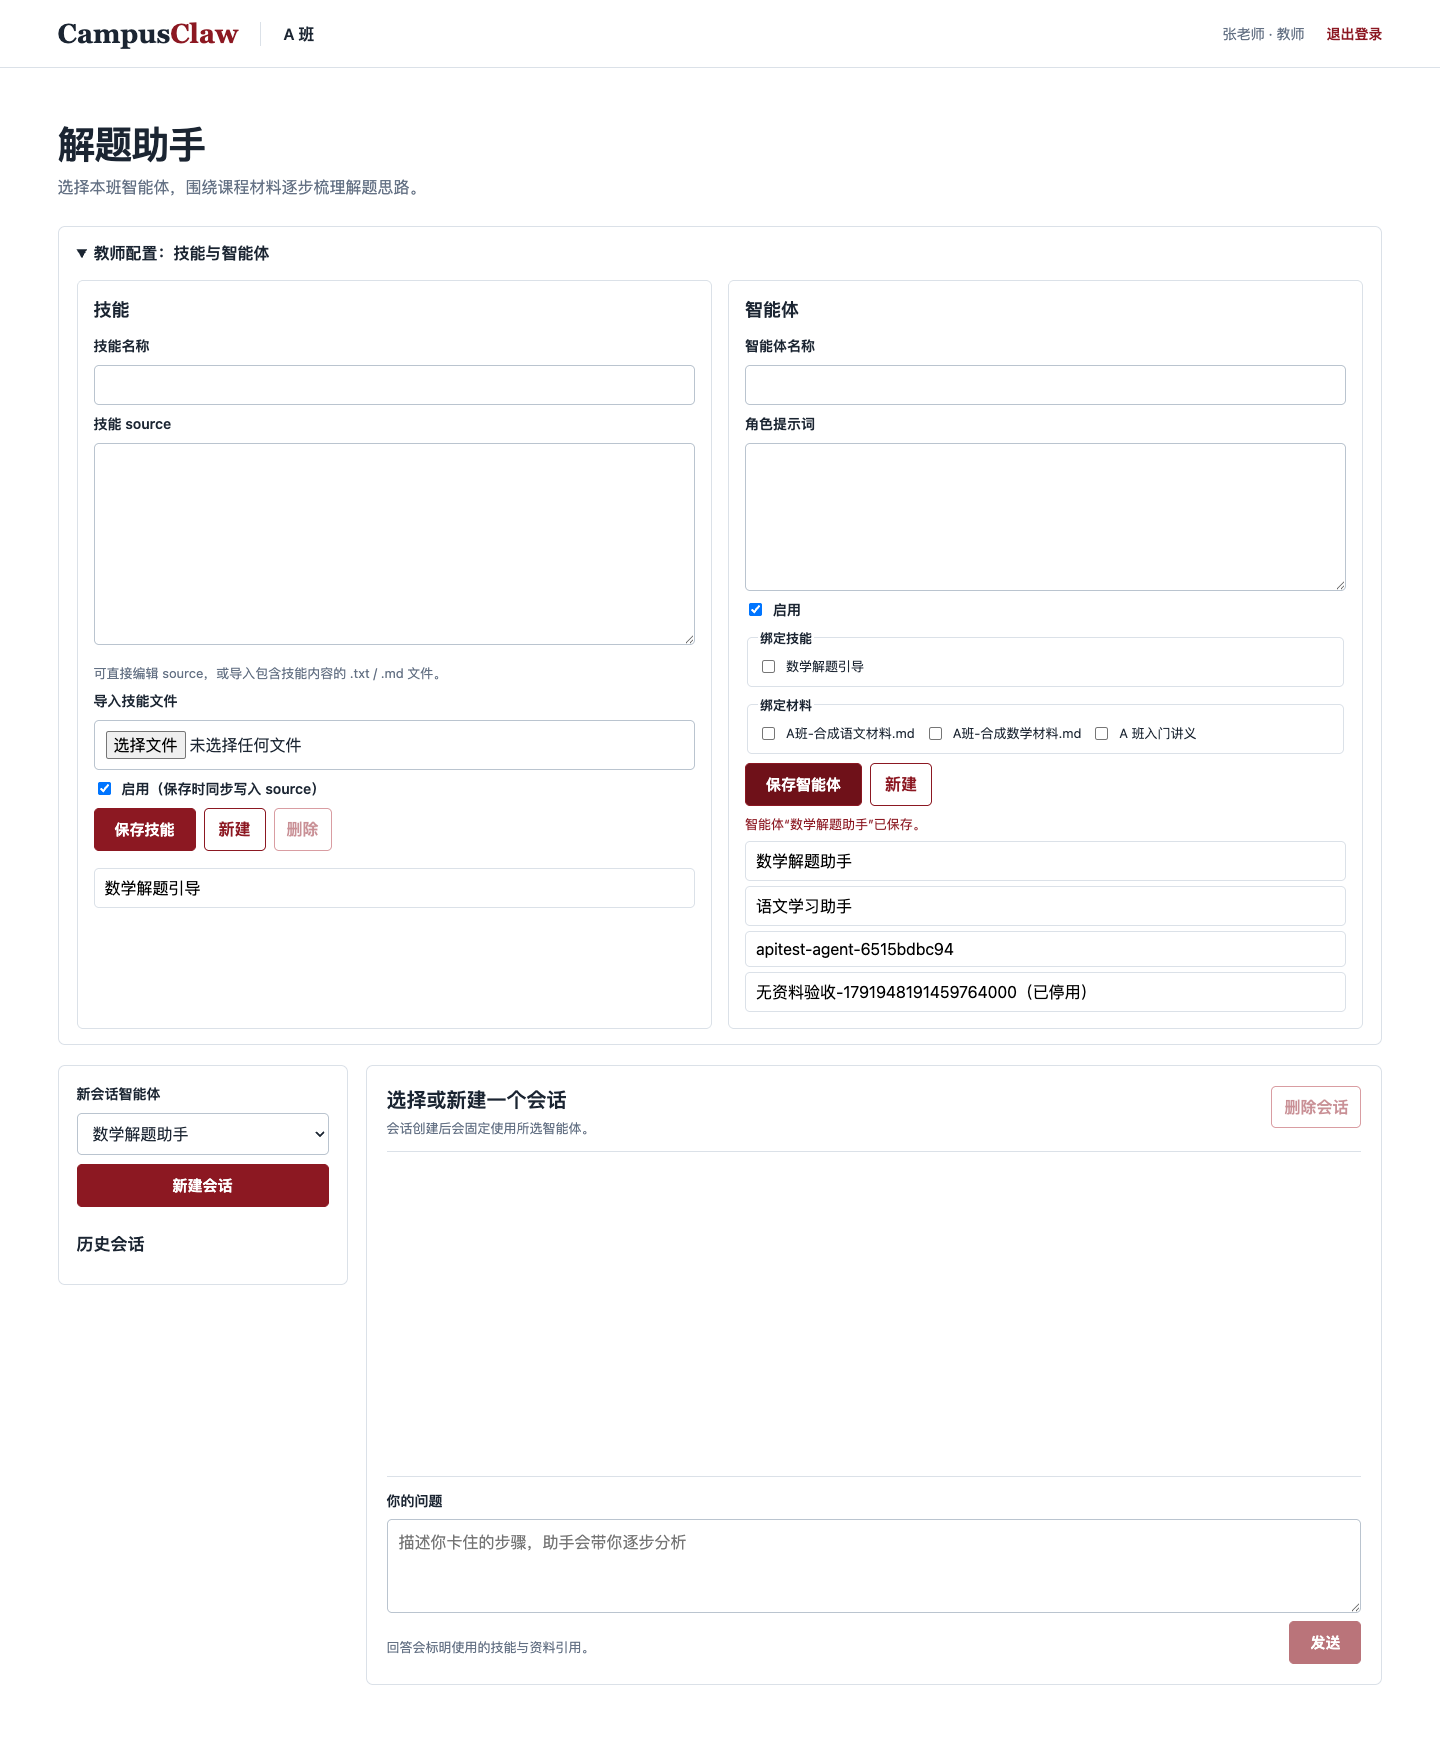
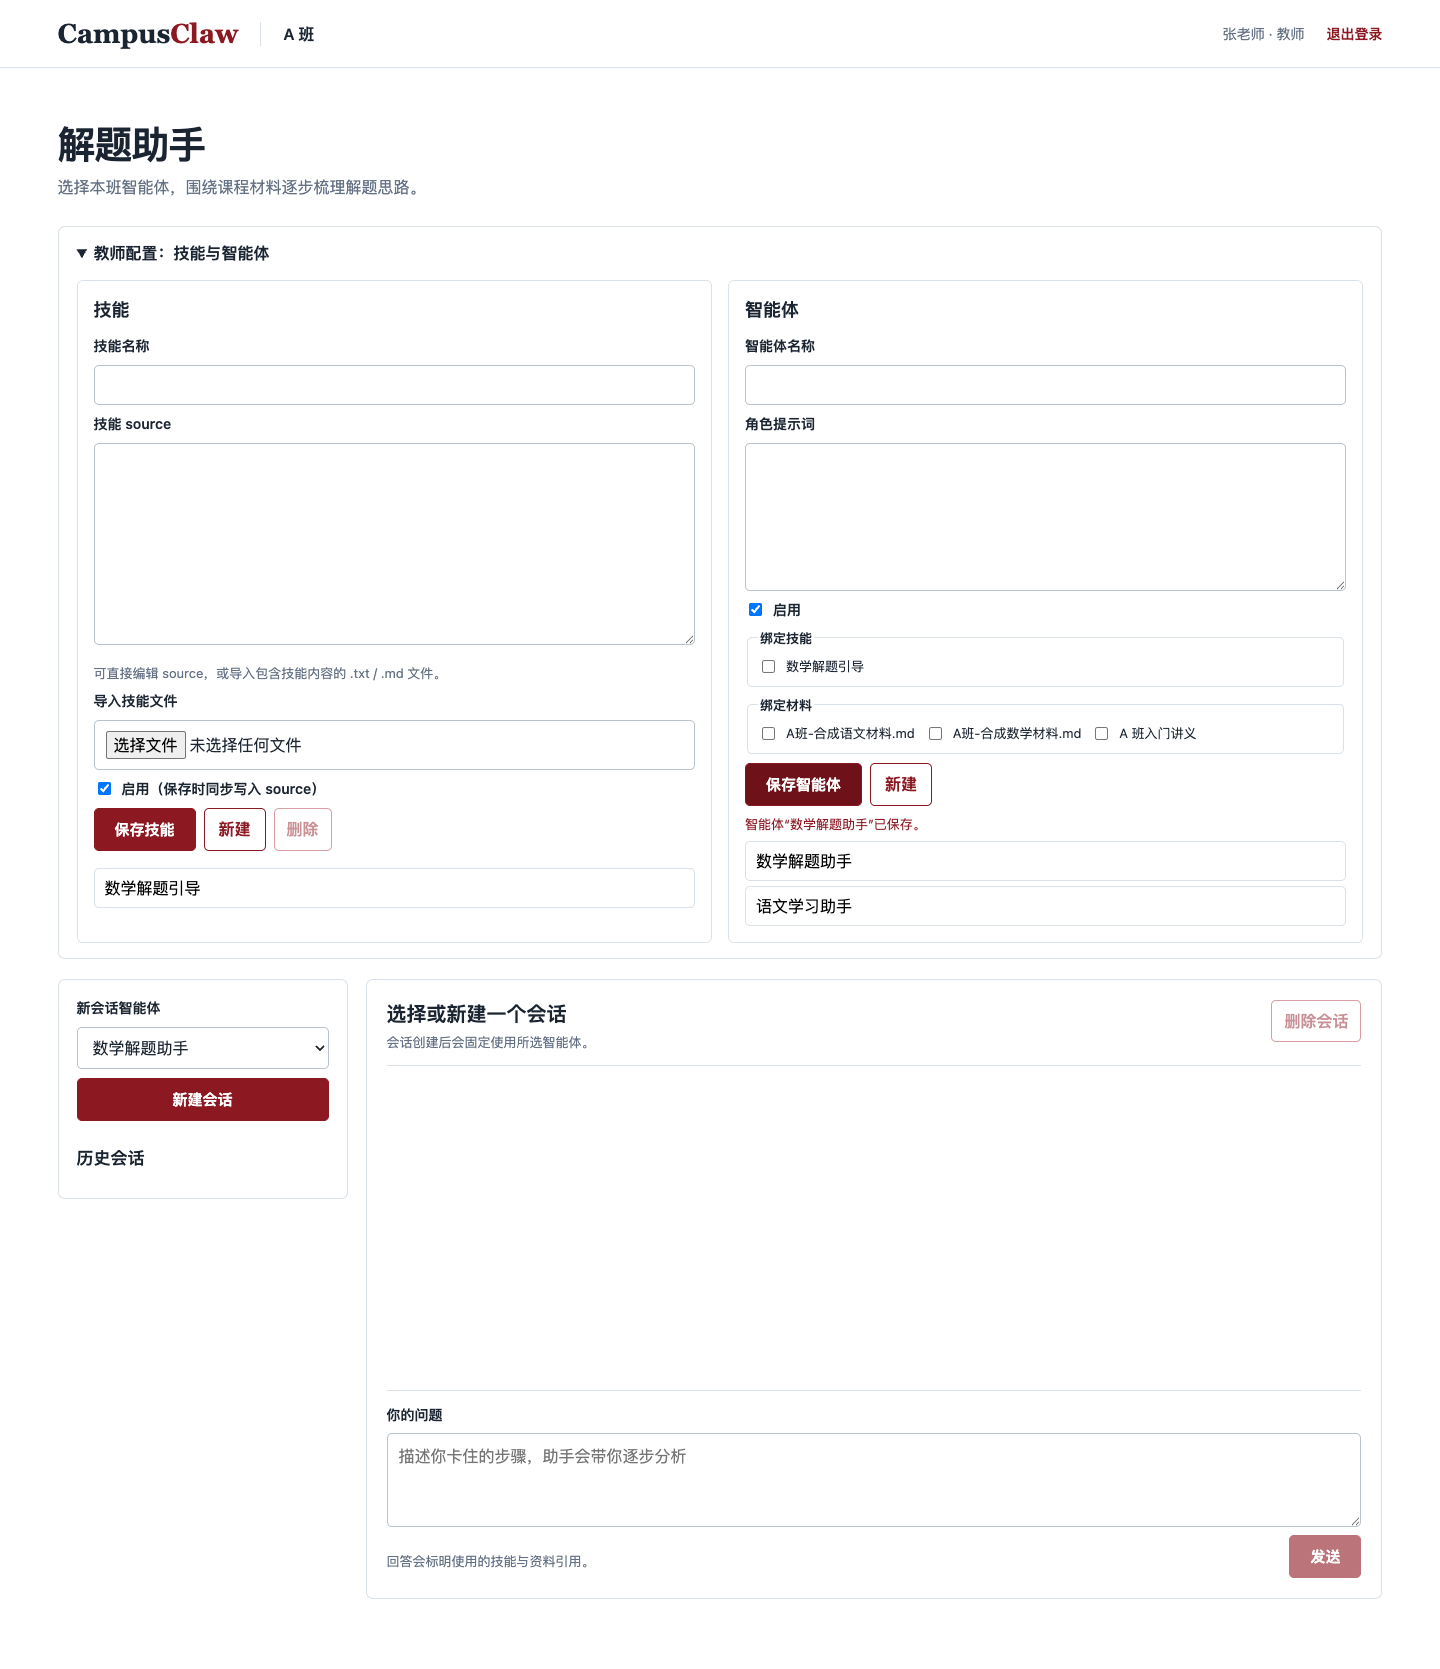
fix: prevent conversation initialization and logout races

diff --git a/app/static/conversations.js b/app/static/conversations.js
@@ -10,7 +10,7 @@
     chatStatus: $('#chat-status'), messages: $('#message-list'), messageForm: $('#message-form'),
     message: $('#message-content'), send: $('#message-form button[type="submit"]'),
   };
-  const state = { agents: [], skills: [], materials: [], conversations: [], activeId: null, streaming: false };
+  const state = { agents: [], skills: [], materials: [], conversations: [], activeId: null, streaming: false, ready: false, creating: false };
 
   function escapeText(value) { return value == null ? '' : String(value); }
   function appendText(parent, tag, value, className) {
@@ -95,12 +95,14 @@
     state.conversations.forEach((conversation) => {
       const item = document.createElement('li'); item.className = 'conversation-item';
       const button = document.createElement('button'); button.type = 'button'; button.className = 'conversation-open';
+      button.disabled = state.streaming || state.creating || !state.ready;
       button.setAttribute('aria-current', String(conversation.id) === String(state.activeId) ? 'true' : 'false');
       appendText(button, 'span', conversation.title || '新会话');
       appendText(button, 'small', formatDate(conversation.updated_at));
       button.addEventListener('click', () => loadConversation(conversation.id));
       item.append(button);
       const remove = appendText(item, 'button', '删除', 'mini-delete'); remove.type = 'button'; remove.setAttribute('aria-label', `删除会话：${conversation.title || '新会话'}`);
+      remove.disabled = state.streaming || state.creating || !state.ready;
       remove.addEventListener('click', () => deleteConversation(conversation.id));
       els.convList.append(item);
     });
@@ -148,9 +150,11 @@
     els.title.textContent = conversation ? (conversation.title || '新会话') : '选择或新建一个会话';
     const agent = conversation && agentById(conversation.agent_id);
     els.lockedAgent.textContent = conversation ? `固定智能体：${agent ? agent.name : `#${conversation.agent_id}`} · 会话创建后不能更换` : '会话创建后会固定使用所选智能体。';
-    els.deleteConv.disabled = !conversation || state.streaming;
-    els.message.disabled = !conversation || state.streaming;
-    els.send.disabled = !conversation || state.streaming;
+    const busy = state.streaming || state.creating || !state.ready;
+    els.deleteConv.disabled = !conversation || busy;
+    els.message.disabled = !conversation || busy;
+    els.send.disabled = !conversation || busy;
+    els.newConv.querySelector('button[type="submit"]').disabled = busy || !els.newAgent.value;
     renderConversations();
   }
   async function reloadConversations(selectId = state.activeId) {
@@ -183,15 +187,20 @@
   }
   async function createConversation(event) {
     event.preventDefault();
+    if (!state.ready || state.creating || state.streaming) return;
     const agentId = els.newAgent.value;
     if (!agentId) return;
-    const button = els.newConv.querySelector('button[type="submit"]'); button.disabled = true;
+    state.creating = true;
+    setActive(state.conversations.find((item) => String(item.id) === String(state.activeId)) || null);
     try {
       const data = await jsonRequest('/api/conversations', { method: 'POST', body: JSON.stringify({ agent_id: Number(agentId) }) });
       await reloadConversations(data.conversation.id);
       setStatus(els.chatStatus, '会话已创建。');
     } catch (error) { setStatus(els.chatStatus, error.message, true); }
-    finally { button.disabled = false; }
+    finally {
+      state.creating = false;
+      setActive(state.conversations.find((item) => String(item.id) === String(state.activeId)) || null);
+    }
   }
   function processSSEBlock(block, onEvent) {
     let event = 'message'; const data = [];
@@ -372,6 +381,8 @@
       }
       const requestedId = new URLSearchParams(window.location.search).get('id');
       await reloadConversations(requestedId && /^\d+$/.test(requestedId) ? Number(requestedId) : null);
+      state.ready = true;
+      setActive(state.conversations.find((item) => String(item.id) === String(state.activeId)) || null);
       if (!els.newAgent.value) setStatus(els.listStatus, '目前没有启用的智能体。');
     } catch (error) { setStatus(els.authStatus, error.message, true); }
   }

diff --git a/app/static/auth.js b/app/static/auth.js
@@ -1,14 +1,18 @@
 const TOKEN_SLOT = 'campusclaw.accessToken';
+const identityCheck = new AbortController();
+let loggingOut = false;
 
 function clearAccessToken() {
   sessionStorage.removeItem(TOKEN_SLOT);
 }
 
 async function apiFetch(path, options = {}) {
+  if (loggingOut && path !== '/api/logout') throw new DOMException('退出登录中', 'AbortError');
   const headers = new Headers(options.headers || {});
   const token = sessionStorage.getItem(TOKEN_SLOT);
   if (token) headers.set('Authorization', `Bearer ${token}`);
   const response = await fetch(path, { ...options, headers });
+  if (loggingOut && path !== '/api/logout') throw new DOMException('退出登录中', 'AbortError');
   if (response.status === 401) clearAccessToken();
   return response;
 }
@@ -45,6 +49,8 @@ if (loginForm) {
 
 document.querySelector('#logout-form')?.addEventListener('submit', async (event) => {
   event.preventDefault();
+  loggingOut = true;
+  identityCheck.abort();
   const result = document.querySelector('#auth-status');
   try {
     const response = await apiFetch('/api/logout', { method: 'POST' });
@@ -52,15 +58,17 @@ document.querySelector('#logout-form')?.addEventListener('submit', async (event)
     clearAccessToken();
     window.location.assign('/login');
   } catch (error) {
+    loggingOut = false;
     if (result) result.textContent = error.message;
   }
 });
 
 if (document.querySelector('#auth-status')) {
-  window.campusAuth.fetch('/api/materials').then((response) => {
+  window.campusAuth.fetch('/api/materials', { signal: identityCheck.signal }).then((response) => {
     if (response.status === 401) window.location.assign('/login');
     else if (!response.ok) document.querySelector('#auth-status').textContent = '材料服务暂时不可用';
-  }).catch(() => {
+  }).catch((error) => {
+    if (error.name === 'AbortError') return;
     document.querySelector('#auth-status').textContent = '网络连接失败';
   });
 }

diff --git a/app/templates/conversations.html b/app/templates/conversations.html
@@ -49,7 +49,7 @@
     <aside class="conversation-sidebar" aria-label="会话列表">
       <form id="new-conversation-form">
         <label for="new-agent">新会话智能体</label><select id="new-agent" name="agent_id" required></select>
-        <button class="primary-button" type="submit">新建会话</button>
+        <button class="primary-button" type="submit" disabled>新建会话</button>
       </form>
       <h2>历史会话</h2><p id="conversation-list-status" class="help" role="status"></p>
       <ul id="conversation-list" class="conversation-list"></ul>

diff --git a/tests/test_browser_regressions.py b/tests/test_browser_regressions.py
@@ -1,0 +1,13 @@
+import shutil
+import subprocess
+from pathlib import Path
+
+import pytest
+
+
+@pytest.mark.skipif(shutil.which('node') is None, reason='Node is needed for browser-script unit regressions')
+def test_auth_browser_regressions():
+    root = Path(__file__).resolve().parents[1]
+    result = subprocess.run(['node', '--test', str(root / 'tests/browser/auth-regression.cjs')],
+                            capture_output=True, text=True, timeout=20)
+    assert result.returncode == 0, result.stdout + result.stderr

diff --git a/docs/week05-verification.md b/docs/week05-verification.md
@@ -6,7 +6,7 @@
 
 | 验证 | 结果 |
 | --- | --- |
-| 本地 pytest | 117 项通过，包含原有 65 项回归 |
+| 本地 pytest | 118 项通过，包含原有 65 项回归；其中一项运行 4 个 Node 认证脚本测试 |
 | OpenSpec strict | 活跃第五课变更及三份正式规格通过 |
 | CLab 真实 HTTP + SQLite 验收 | apitest 13 个脚本全部通过 |
 | 真实网关有资料回答 | 7 个下游 delta，含服务端补充的来源编号；正文与数据库一致 |
@@ -25,12 +25,18 @@
 - [原文高亮](evidence/classroom/week05/04-source.png)
 - [移动端](evidence/classroom/week05/05-mobile.png)
 - [Swagger](evidence/classroom/week05/06-swagger.png)
+- [初始化期间禁用操作](evidence/classroom/week05/08-initialization-guard.png)
+- [新建期间防止重复提交](evidence/classroom/week05/09-creation-guard.png)
 
-教师编辑、学生提问、历史恢复、来源跳转、移动布局与 Swagger Bearer 试调已逐项操作。完整浏览器脚本在重复及并行验收中发现初始化与新建会话的状态竞态，后续修复并重新全流程确认；退出时自动身份检查可能收到预期 401，需与页面错误分别记录。
+已修复页面初始化与新建会话重叠、重复新建请求，以及退出时后台请求引发重复跳转的问题。新建期间禁用提问、切换和删除会话；退出时取消初始身份检查，并忽略尚未完成的后台响应。
+
+修复后使用 Playwright Chromium 在 `http://127.0.0.1:19084` 验证教师编辑、学生真实流式提问、刷新恢复、多轮对话、来源跳转、Swagger Bearer 试调与退出。桌面视口为 1440×1000，手机视口为 390×844，页面无横向溢出，未发现 JavaScript 错误。当前环境未提供 Browser 技能，使用已有 Playwright 安装。
+
+另用受控网络延迟验证初始化和新建期间的按钮状态，并重复触发表单提交：只产生一个新建请求。两张操作保护截图来自该测试。退出流程记录到一次 `/api/materials` 的 401，登录页正常打开，没有重复跳转或导航中断。4 个 Node 测试覆盖身份检查取消、后台 401、退出失败后重试及普通 401 的令牌清理。
 
 ## 部署状态与剩余验收
 
-隔离环境绑定远端 loopback 18083，数据库、上传目录和 Qdrant 集合独立。正式应用尚待部署。部署前备份已完成：`/home/ubuntu/campusclaw-backups/week05-20261014-before`，包含旧镜像引用、私有环境配置、源码、SQLite 一致快照及上传文件。原数据为 3 个账号、2 个班、4 份材料、4 个切片、2 个上传文件。
+隔离环境绑定远端 loopback 18083，本次页面修复另在 18084 验证；数据库、上传目录和 Qdrant 集合独立。正式应用尚待部署。部署前备份已完成：`/home/ubuntu/campusclaw-backups/week05-20261014-before`，包含旧镜像引用、私有环境配置、源码、SQLite 一致快照及上传文件。原数据为 3 个账号、2 个班、4 份材料、4 个切片、2 个上传文件。
 
 后续完成正式部署与重启数据核对，再由真实同学使用独立账号验证会话归属、智能体隔离、班级边界和技能开关。未取得第二方证据，OpenSpec 保持活跃。
 
